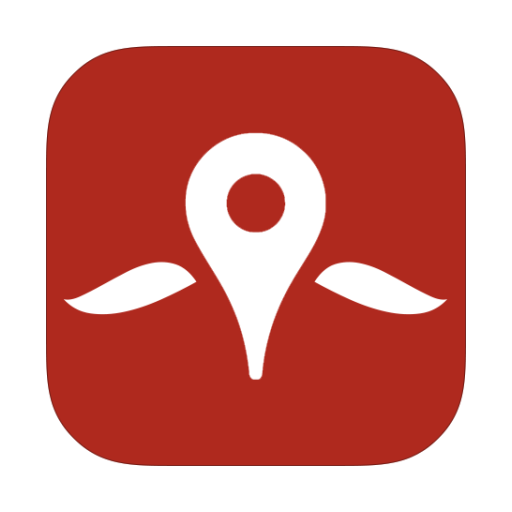
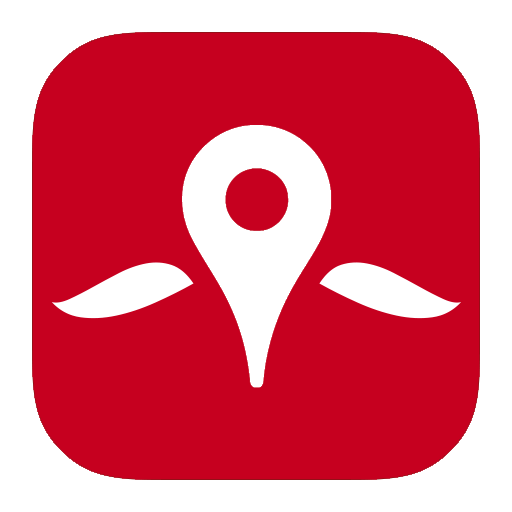
small tweaks
- app no longer detects yourself as passer-by (can be toggled for
testing)
- constants for how often a user can find others changed
- slightly more vibrant icon

diff --git a/IntegratingFacebookTutorial-Android/src/com/parse/integratingfacebooktutorial/GPSTracker.java b/IntegratingFacebookTutorial-Android/src/com/parse/integratingfacebooktutorial/GPSTracker.java
@@ -24,14 +24,17 @@ import android.util.Log;
 
 public class GPSTracker extends Service implements LocationListener {
 
+	private boolean testing = false; // set to true if you want app to consider yourself a passer-by for testing purposes
+	
     private boolean isGPSEnabled = false;
     private boolean isNetworkEnabled = false;
     private Location location;
     private ParseGeoPoint geoPoint;
-    private static final int MIN_DISTANCE_CHANGE_FOR_UPDATES = 10;
+    
+    private static final int MIN_DISTANCE_CHANGE_FOR_UPDATES = 10; // 10 meters
     private static final int MIN_TIME_BW_UPDATES = 1000*60*1; //1 minute
-    private static final double MAX_DISTANCE = 0.04; // kilometers (40 meters)
-    private static final int MINIMUM_MINUTES = 5; // minutes
+    private static final double MAX_DISTANCE = 0.04; // max distance in kilometers for users to pass by each other
+    private static final int MINIMUM_HOURS = 6; // minimum hours before user can pass by the same user again
 
     LocationManager manager;
 
@@ -96,7 +99,7 @@ public class GPSTracker extends Service implements LocationListener {
     	}
     }
     
-    public void findNearbyUsers(){
+    private void findNearbyUsers(){
     	ParseQuery<ParseUser> query = ParseUser.getQuery();
     	query.whereWithinKilometers("location", geoPoint, MAX_DISTANCE);
     	query.findInBackground(new FindCallback<ParseUser>(){
@@ -104,7 +107,7 @@ public class GPSTracker extends Service implements LocationListener {
 			public void done(List<ParseUser> objects, ParseException e) {
 				Log.d("GPSTracker", "Found " + objects.size() + " users nearby");
 				for(ParseUser user : objects){
-					if(user.getObjectId() != ParseUser.getCurrentUser().getObjectId()){
+					if(!user.hasSameId(ParseUser.getCurrentUser()) || testing){
 						processRelationship(user);
 					}
 				}
@@ -113,7 +116,7 @@ public class GPSTracker extends Service implements LocationListener {
     	});
     }
     
-    public void processRelationship(final ParseUser user){
+    private void processRelationship(final ParseUser user){
     	ParseQuery<Relationship> query1 = Relationship.createQuery();
         query1.whereEqualTo("user1", user);
         query1.whereEqualTo("user2", user);
@@ -139,7 +142,7 @@ public class GPSTracker extends Service implements LocationListener {
 					object.put("user2Interested", 0);
 				}else{
 					Calendar cal = Calendar.getInstance();
-					cal.add(Calendar.MINUTE, MINIMUM_MINUTES * -1);
+					cal.add(Calendar.HOUR, MINIMUM_HOURS * -1);
 					Date date = cal.getTime();
 					if(object.getDate("lastMetAt").after(date)){
 						return;
@@ -150,7 +153,6 @@ public class GPSTracker extends Service implements LocationListener {
 				object.put("lastMetAt", date);
 				object.saveInBackground();
 				Log.d("GPSTracker", "updated relationship");
-				// create encounter
 			}
         });
     }

diff --git a/IntegratingFacebookTutorial-Android/src/com/parse/integratingfacebooktutorial/RelationshipAdapter.java b/IntegratingFacebookTutorial-Android/src/com/parse/integratingfacebooktutorial/RelationshipAdapter.java
@@ -48,6 +48,7 @@ public class RelationshipAdapter extends ArrayAdapter<Relationship> {
             holder = new ViewHolder();
             holder.nameView = (TextView) view.findViewById(R.id.name_view);
             holder.dateView = (TextView) view.findViewById(R.id.date_view);
+            holder.numEncountersView = (TextView) view.findViewById(R.id.numEncounters_view);
             holder.userProfilePictureView = (ProfilePictureView) view.findViewById(R.id.userProfilePicture);
             /*holder.titleView = (TextView) view.findViewById(R.id.title);
             holder.speakerName = (TextView) view
@@ -75,7 +76,15 @@ public class RelationshipAdapter extends ArrayAdapter<Relationship> {
         SimpleDateFormat df = new SimpleDateFormat("MMMM dd, yyyy h:mm a", Locale.US);
         TextView nameView = holder.nameView;
         TextView dateView = holder.dateView;
-        dateView.setText(df.format(Relationship.getCreatedAt()));
+        TextView numEncountersView = holder.numEncountersView;
+        dateView.setText("Last Passed: " + df.format(Relationship.get("lastMetAt")));
+        int numEncounters = Relationship.getInt("numEncounters");
+        if(numEncounters == 1){
+        	numEncountersView.setText("Passed 1 time");
+        }else{
+        	numEncountersView.setText("Passed " + numEncounters + " times");
+        }
+        
         ProfilePictureView pictureView = holder.userProfilePictureView;
 
         if (user.get("profile") != null) {
@@ -171,6 +180,7 @@ public class RelationshipAdapter extends ArrayAdapter<Relationship> {
         LinearLayout talkLayout;
         TextView nameView;
         TextView dateView;
+        TextView numEncountersView;
         ProfilePictureView userProfilePictureView;
         /*TextView titleView;
         TextView speakerName;

diff --git a/IntegratingFacebookTutorial-Android/src/com/parse/integratingfacebooktutorial/Relationship.java b/IntegratingFacebookTutorial-Android/src/com/parse/integratingfacebooktutorial/Relationship.java
@@ -57,7 +57,7 @@ public class Relationship extends ParseObject {
     /**
      * Creates a query for talks with all the includes
      */
-    private static ParseQuery<Relationship> createQuery() {
+    public static ParseQuery<Relationship> createQuery() {
         ParseQuery<Relationship> query = new ParseQuery<Relationship>(Relationship.class);
         query.setCachePolicy(CachePolicy.CACHE_THEN_NETWORK);
         return query;
@@ -89,7 +89,7 @@ public class Relationship extends ParseObject {
         queries.add(query2);
 
         ParseQuery<Relationship> mainQuery = ParseQuery.or(queries);
-        mainQuery.orderByDescending("createdAt");
+        mainQuery.orderByDescending("lastMetAt");
         mainQuery.include("user1");
         mainQuery.include("user2");
 

diff --git a/IntegratingFacebookTutorial-Android/src/com/parse/integratingfacebooktutorial/RelationshipListActivity.java b/IntegratingFacebookTutorial-Android/src/com/parse/integratingfacebooktutorial/RelationshipListActivity.java
@@ -20,7 +20,7 @@ import java.util.List;
 public class RelationshipListActivity extends Activity {
 
     private RelationshipAdapter adapter;
-    public static ParseUser selectedUser;
+    public static Relationship selected;
 
     // private List<Relationship> Relationships = new ArrayList<Relationship>();
     @Override
@@ -66,7 +66,7 @@ public class RelationshipListActivity extends Activity {
             public void onItemClick(AdapterView<?> parent, View view,
                                     int position, long id) {
                 Relationship Relationship = adapter.getItem(position);
-                selectedUser = Relationship.getUser();
+                selected = Relationship;
                 showUserDetailsActivity();
             }
         });

diff --git a/IntegratingFacebookTutorial-Android/src/com/parse/integratingfacebooktutorial/UserDetailsActivity.java b/IntegratingFacebookTutorial-Android/src/com/parse/integratingfacebooktutorial/UserDetailsActivity.java
@@ -34,6 +34,7 @@ public class UserDetailsActivity extends Activity {
 	private TextView userRelationshipView;
 	private Button logoutButton;
     private ListView userLikes;
+    private static Relationship r;
     private static ParseUser friend;
 
 	@Override
@@ -41,7 +42,8 @@ public class UserDetailsActivity extends Activity {
 		super.onCreate(savedInstanceState);
 		setContentView(R.layout.userdetails);
         if(getIntent().getStringExtra("parent").equals("RelationshipListActivity")) {
-            friend = RelationshipListActivity.selectedUser;
+        	r = RelationshipListActivity.selected;
+            friend = r.getUser();
         }
 
 		userProfilePictureView = (ProfilePictureView) findViewById(R.id.userProfilePicture);
